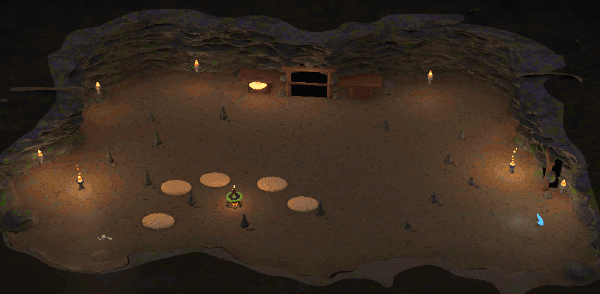
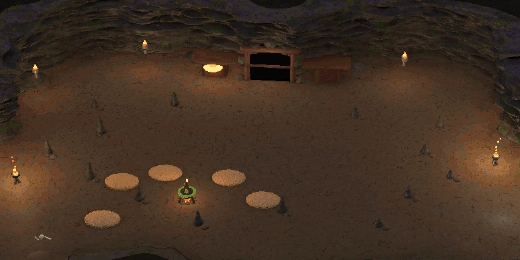
昼の3D：部屋を画面いっぱいに・キャラを床の明るさに合わせる
Claude-Session: https://claude.ai/code/session_01MpJPWy321815AwYbXUCf2V

diff --git a/index.html b/index.html
@@ -1030,12 +1030,12 @@ body:has(.stage) .modal{display:none!important}
 .d3t{flex:0 0 auto;font-size:12px;padding:3px 8px;margin-right:4px;border-radius:8px}
 .d3t.on{background:#7a4a22;border-color:#c98a4a}
 /* 25：昼の3D（部屋を縦に並べる） */
-.d3stack{display:flex;flex-direction:column;padding:4px 6px 10px;background:#120d0b}
-.d3stack .chall.d3card{position:relative;left:auto;top:auto;width:100%;aspect-ratio:600/294;border-radius:10px;overflow:hidden;box-shadow:0 0 0 1px #3a2c22,0 4px 10px #000a}
+.d3stack{display:flex;flex-direction:column;padding:0 0 10px;background:#120d0b}
+.d3stack .chall.d3card{position:relative;left:auto;top:auto;width:100%;aspect-ratio:2/1;border-radius:0;overflow:hidden}
 .d3card canvas{position:absolute;inset:0;width:100%;height:100%;display:block;image-rendering:pixelated}
 .d3card .cname{position:absolute;top:6px;left:50%;transform:translateX(-50%);z-index:2;white-space:nowrap}
 .d3stack .chall.sel{outline:2px solid var(--gold);outline-offset:-2px}
-.d3tun{height:22px;display:flex;justify-content:center}.d3tun span{width:34px;height:100%;background:linear-gradient(90deg,#2a1f18,#0b0807 30%,#0b0807 70%,#2a1f18);border-left:3px solid #5a3e26;border-right:3px solid #5a3e26}
+.d3tun{height:16px;display:flex;justify-content:center;background:linear-gradient(#1a1310,#0e0a08)}.d3tun span{width:40px;height:100%;background:linear-gradient(90deg,#3a2a1e,#0b0807 25%,#0b0807 75%,#3a2a1e);border-left:3px solid #5a3e26;border-right:3px solid #5a3e26}
 .d3floor{margin:10px 0 6px;text-align:center;color:#e5b85a;font-size:12px;font-weight:700;letter-spacing:.1em}
 </style>
 </head>
@@ -7212,7 +7212,7 @@ document.addEventListener("click", ev => {
 { const _oc2 = openChest19; openChest19 = function (S, c) { if (c.kind !== "lvall") return _oc2(S, c); if (!S.mons.length) return _oc2(S, c);
   return { text: "👑 覚醒", sub: "Lv+3 する子を1体えらんでね", sp: null, feed: 1, awaken: true, evos: [] }; }; }
 
-const VER20 = "No.195（11/18 14:07）";
+const VER20 = "No.196（11/18 14:10）";
 // ================= proto20：ダンジョンを見る画面と、配置する画面を分ける =================
 // ・ダンジョン画面：洞窟を大きく。部屋をタップ → 部屋ボード（全画面）
 // ・🧭育成：育てる→稼ぐ／守るの流れで見る。卒業Lv・毎朝おまかせ
@@ -10892,11 +10892,15 @@ function prebake25(){
 // 部屋を押す＝選ぶ、もう一度＝のぞく、は今まで通り（部屋の札に .chall と data-room を付けているので、今の操作がそのまま効く）
 let day3dOn25 = (() => { try { return localStorage.getItem("day3d25") !== "0"; } catch (e) { return true; } })();
 const D3 = { img: {}, spr: {}, raf: 0, act: {} };
-const DCROP25 = [40, 110, 1000, 490], DVR25 = [1080, 708];
+const DCROP25 = [150, 150, 780, 390], DVR25 = [1080, 708];
 function dproj25(x, y, z){ const c = CAMP24, v = V3.s([x, y, z], c.e), rt = c.M.slice(0, 3), up = c.M.slice(3, 6), fw = c.M.slice(6, 9), zz = V3.d(v, fw);
   const ix = V3.d(v, rt) / zz * c.fl * DVR25[1] + DVR25[0] / 2, iy = DVR25[1] - (V3.d(v, up) / zz * c.fl * DVR25[1] + DVR25[1] / 2);
   return [(ix - DCROP25[0]) / DCROP25[2], (iy - DCROP25[1]) / DCROP25[3], c.fl * DVR25[1] / zz / DCROP25[2], zz]; }
-const dimg25 = src => D3.img[src] || (D3.img[src] = (() => { const im = new Image(); im.onload = () => { im.ok = 1; }; im.src = src; return im; })());
+const dimg25 = src => D3.img[src] || (D3.img[src] = (() => { const im = new Image(); im.onload = () => { im.ok = 1; try { const c = document.createElement("canvas"); c.width = im.width; c.height = im.height; const g = c.getContext("2d"); g.drawImage(im, 0, 0); im.px = g.getImageData(0, 0, im.width, im.height).data; } catch (e) {} }; im.src = src; return im; })());
+// 足もとの床の明るさ（0〜1）。まわり5×5点の平均
+function dlum25(im, u, v){ if (!im.px) return 0.5; let s = 0, n = 0; const W = im.width, H = im.height;
+  for (let dy = -4; dy <= 4; dy += 2) for (let dx = -4; dx <= 4; dx += 2) { const x = Math.max(0, Math.min(W - 1, Math.round(u * W) + dx)), y = Math.max(0, Math.min(H - 1, Math.round(v * H) + dy)), i = (y * W + x) * 4; s += im.px[i] * 0.3 + im.px[i + 1] * 0.59 + im.px[i + 2] * 0.11; n++; }
+  return s / n / 255; }
 const dbip25 = sp => ["goblin", "skeleton", "imp", "kobold", "orc", "golem", "human", "demon", "gobx", "lich", "noble"].includes(kitOf24(sp));
 function dspr25(sp, evo){ const k = sp + ":" + evo; if (D3.spr[k] !== undefined) return D3.spr[k]; const L = typeof CHR3D24 !== "undefined" && CHR3D24[sp]; if (!L) return D3.spr[k] = null;
   const im = new Image(); const o = { im, ok: false, ppu: (PPU25[k] || PPU25[sp + ":0"] || [36])[0], bip: dbip25(sp), foot: 122 };
@@ -10912,7 +10916,8 @@ function droom25(i){ const kind = roomKind25(i), on = {}; ROOMSET25[kind].forEac
   const list = all.map(m => ({ sp: m.sp, evo: m.evos || 0, n: 1, act: job(m) }));
   const cast = HAI25.place(on, list, 11 + i * 17);
   const order = all.map((m, k) => ({ m, a: list[k] })).sort((a, b) => HAI25.footR({ sp: b.m.sp, evo: b.m.evos || 0 }) - HAI25.footR({ sp: a.m.sp, evo: a.m.evos || 0 }));
-  const acts = []; cast.forEach((c, k) => { const o = order[k]; if (!o) return; acts.push({ m: o.m, sp: o.m.sp, evo: o.m.evos || 0, x: c.o[0], z: c.o[2], hx: c.o[0], hz: c.o[2], tx: c.o[0], tz: c.o[2], mode: c.mode, face: Math.random() < 0.5 ? 1 : -1, next: 0, ph: Math.random() * 3 }); });
+  const fit = (x, z, r) => { for (let n = 0; n < 30; n++) { const p = dproj25(x, 0, z), pw = r * p[2]; if (p[0] - pw > 0.04 && p[0] + pw < 0.96 && p[1] > 0.32 && p[1] < 0.95) break; x *= 0.92; z = z * 0.9 + 0.3; } return [x, z]; };
+  const acts = []; cast.forEach((c, k) => { const o = order[k]; if (!o) return; const [fx0, fz0] = fit(c.o[0], c.o[2], HAI25.footR({ sp: o.m.sp, evo: o.m.evos || 0 })); c.o[0] = fx0; c.o[2] = fz0; acts.push({ m: o.m, sp: o.m.sp, evo: o.m.evos || 0, x: c.o[0], z: c.o[2], hx: c.o[0], hz: c.o[2], tx: c.o[0], tz: c.o[2], mode: c.mode, face: Math.random() < 0.5 ? 1 : -1, next: 0, ph: Math.random() * 3 }); });
   if (S.path[i].kind === "lord") acts.push({ lord: true, sp: "lord", evo: typeof lordTier === "function" ? lordTier() : 0, x: 0, z: -3.5, hx: 0, hz: -3.5, tx: 0, tz: -3.5, mode: "idle", face: 1, next: 1e12, ph: 0 });
   return D3.act[i] = { sig, kind, acts }; }
 // ---- 1部屋を描く ----
@@ -10921,7 +10926,7 @@ function dcard25(card, i, now, dt){
   const cv = card.querySelector("canvas"), r = cv.getBoundingClientRect(), dpr = Math.min(2, window.devicePixelRatio || 1), W = Math.round(r.width * dpr), H = Math.round(r.height * dpr);
   if (!W) return; if (cv.width !== W || cv.height !== H) { cv.width = W; cv.height = H; }
   const g = cv.getContext("2d"); g.imageSmoothingEnabled = false;
-  const R = droom25(i), bg = dimg25(`bg25/${R.kind}_full.png?v=1`); if (bg.ok) g.drawImage(bg, 0, 0, W, H); else { g.fillStyle = "#1a1412"; g.fillRect(0, 0, W, H); }
+  const R = droom25(i), bg = dimg25(`bg25/${R.kind}_full.png?v=2`); if (bg.ok) g.drawImage(bg, 0, 0, W, H); else { g.fillStyle = "#1a1412"; g.fillRect(0, 0, W, H); }
   // 動き：ときどき近くへ歩く（働いている子・寝ている子はその場）
   R.acts.forEach(a => { if (a.mode === "idle" && !a.lord && now > a.next) { a.next = now + 2.5 + Math.random() * 4; const ang = Math.random() * 6.28, d = Math.random() * 2.2; a.tx = a.hx + Math.cos(ang) * d; a.tz = a.hz + Math.sin(ang) * d * 0.6; }
     const dx = a.tx - a.x, dz = a.tz - a.z, L = Math.hypot(dx, dz); a.walking = L > 0.08; if (a.walking) { const s = Math.min(L, 1.6 * dt); a.x += dx / L * s; a.z += dz / L * s; if (Math.abs(dx) > 0.05) a.face = dx > 0 ? 1 : -1; } });
@@ -10929,8 +10934,13 @@ function dcard25(card, i, now, dt){
     const p = dproj25(a.x, 0, a.z), fx = p[0] * W, fy = p[1] * H, k = p[2] * W / o.ppu, s = 128 * k;
     const st = a.mode === "sleep" ? "sleep" : a.walking ? (o.bip ? "walk" : "hop") : (a.mode === "mine" || a.mode === "train" || a.mode === "slash" || a.mode === "lift") && o.bip ? "atk" : "idle";
     const F = DFR25[st], fr = F[0] + Math.floor(((now + a.ph) / F[2] * F[1]) % F[1]);
-    g.save(); g.fillStyle = "rgba(0,0,0,0.25)"; g.beginPath(); g.ellipse(fx, fy, Math.max(3, 11 * k), Math.max(2, 4.5 * k), 0, 0, 7); g.fill();
-    g.translate(fx, fy); if (a.face < 0) g.scale(-1, 1); g.drawImage(o.im, fr * 128, 0, 128, 128, -s / 2, -(o.foot + 1) * k, s, s); g.restore();
+    const lum = dlum25(bg, p[0], p[1] - 0.04), br = Math.max(0.42, Math.min(1.05, 0.3 + lum * 2.2));
+    g.save(); g.fillStyle = "rgba(0,0,0,0.3)"; g.beginPath(); g.ellipse(fx, fy, Math.max(3, 11 * k), Math.max(2, 4.5 * k), 0, 0, 7); g.fill();
+    const T = D3.tmp || (D3.tmp = document.createElement("canvas")); if (T.width !== 128) { T.width = 128; T.height = 128; } const tg = T.getContext("2d");
+    tg.globalCompositeOperation = "source-over"; tg.clearRect(0, 0, 128, 128); tg.drawImage(o.im, fr * 128, 0, 128, 128, 0, 0, 128, 128);
+    if (br < 0.99) { tg.globalCompositeOperation = "source-atop"; tg.fillStyle = `rgba(16,9,5,${(1 - br).toFixed(2)})`; tg.fillRect(0, 0, 128, 128); }
+    else if (br > 1.01) { tg.globalCompositeOperation = "source-atop"; tg.fillStyle = `rgba(255,190,110,${((br - 1) * 2).toFixed(2)})`; tg.fillRect(0, 0, 128, 128); }
+    g.translate(fx, fy); if (a.face < 0) g.scale(-1, 1); g.drawImage(T, 0, 0, 128, 128, -s / 2, -(o.foot + 1) * k, s, s); g.restore();
     // 頭の上のしるし
     let ic = ""; if (a.m) { if (restLeft7(S, a.m)) ic = "💤"; else if (S.hungry) ic = "😫"; }
     if (ic) { const hy = fy - (o.foot - 20) * k; g.font = `${Math.round(12 * dpr)}px system-ui`; g.textAlign = "center"; g.fillText(ic, fx, hy); } }); }
